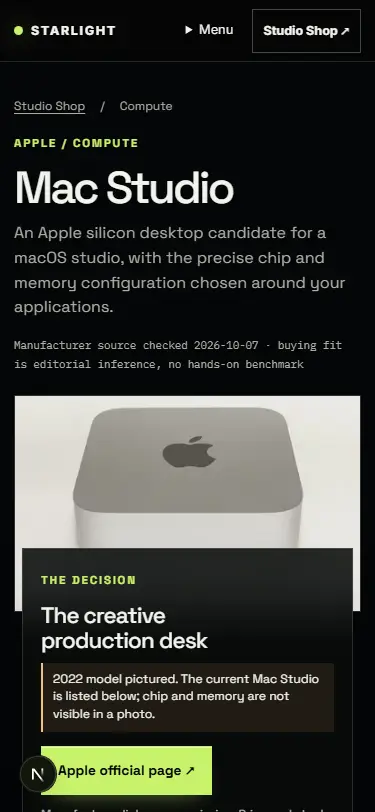
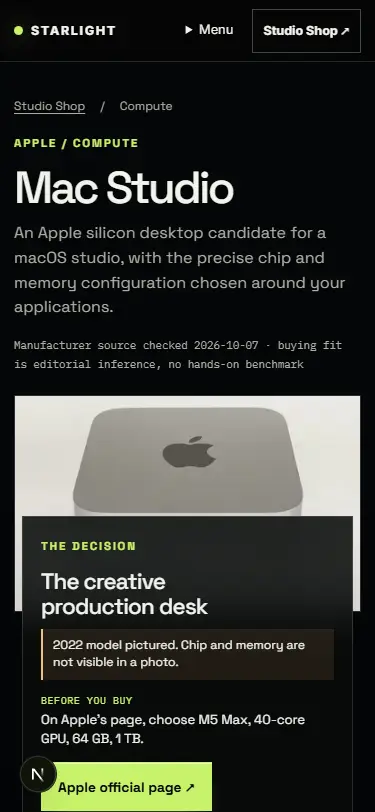
fix(shop): Codex round 3: tell buyers which variant to select
- DGX Spark and Mac Studio panels say, above the action, which variant to
  choose on the manufacturer page (NVIDIA 128 GB; M5 Max 40-core GPU,
  64 GB, 1 TB).
- The DGX-to-Mac alternative no longer claims more memory than the 128 GB
  Spark; it states Apple's 512 GB ceiling instead.
- Mobile panel overlaps the photo by 96 px so the action stays inside the
  375 x 812 viewport with both notices present.

Changed region(s): [[0.088, 0.7081, 0.88, 1.0], [0.0587, 0.6158, 0.9387, 0.6773]]

diff --git a/src/lib/shop-configs.ts b/src/lib/shop-configs.ts
@@ -1,16 +1,17 @@
 export interface ShopConfig {
   checkedOn: string;
   pick?: string;
+  select?: string;
   rows: [label: string, value: string][];
 }
 
 // Copied from each product's manufacturer page (product.sourceUrl) on checkedOn.
 // Advertised figures only: no benchmark, price or stock claim.
 export const shopConfigs: Record<string, ShopConfig> = {
-  "nvidia-dgx-spark": { checkedOn: "2026-10-20", rows: [["Chip", "GB10 Grace Blackwell, 20-core Arm CPU"], ["Memory", "128 GB LPDDR5x unified, NVIDIA's own model; 64 GB only through OEM partners"], ["Storage", "Up to 4 TB NVMe, self-encrypting"], ["Network", "10 GbE + ConnectX-7 200 Gbps"]] },
+  "nvidia-dgx-spark": { checkedOn: "2026-10-20", select: "On NVIDIA's page, choose the 128 GB model. 64 GB units are sold only by OEM partners.", rows: [["Chip", "GB10 Grace Blackwell, 20-core Arm CPU"], ["Memory", "128 GB LPDDR5x unified, NVIDIA's own model; 64 GB only through OEM partners"], ["Storage", "Up to 4 TB NVMe, self-encrypting"], ["Network", "10 GbE + ConnectX-7 200 Gbps"]] },
   "nvidia-rtx-5090": { checkedOn: "2026-10-20", rows: [["Memory", "32 GB GDDR7"], ["CUDA cores", "21,760"], ["Power", "575 W card; 1000 W system PSU"], ["Founders Edition", "304 mm long; partner boards vary"]] },
   "minisforum-ms-s1-max": { checkedOn: "2026-10-20", rows: [["Chip", "AMD Ryzen AI Max+ 395"], ["Memory", "64 GB LPDDR5x-8000 unified, soldered"], ["Storage", "2 TB SSD"], ["Network", "Dual 10 GbE, Wi-Fi 7, USB4 v2"]] },
-  "apple-mac-studio": { checkedOn: "2026-10-20", pick: "Our pick of Apple's three standard configurations", rows: [["Chip", "M5 Max, 18-core CPU, 40-core GPU"], ["Memory", "64 GB unified; cannot be upgraded later"], ["Storage", "1 TB SSD"], ["Range", "Apple also lists 36–512 GB memory, up to 16 TB, and M5 Ultra"]] },
+  "apple-mac-studio": { checkedOn: "2026-10-20", select: "On Apple's page, choose M5 Max, 40-core GPU, 64 GB, 1 TB.", pick: "Our pick of Apple's three standard configurations", rows: [["Chip", "M5 Max, 18-core CPU, 40-core GPU"], ["Memory", "64 GB unified; cannot be upgraded later"], ["Storage", "1 TB SSD"], ["Range", "Apple also lists 36–512 GB memory, up to 16 TB, and M5 Ultra"]] },
   "ugreen-dxp4800-plus": { checkedOn: "2026-10-20", rows: [["CPU", "Intel Pentium Gold 8505"], ["Memory", "8 GB DDR5-6400, expandable to 64 GB"], ["Network", "1 × 10 GbE + 1 × 2.5 GbE"], ["Storage", "4 bays + 2 M.2 NVMe; 144 TB raw maximum"]] },
   "samsung-990-pro-2tb": { checkedOn: "2026-10-20", rows: [["Interface", "PCIe 4.0 x4, NVMe 2.0, M.2 2280"], ["Sequential", "Up to 7,450 MB/s read, 6,900 write"], ["Warranty", "5 years or 1,200 TBW"]] },
   "elgato-stream-deck-plus": { checkedOn: "2026-10-20", rows: [["Controls", "8 LCD keys, 4 push dials"], ["Touch panel", "108 × 14 mm LCD strip"], ["Connection", "USB-C, USB 3.0 port recommended"]] },
@@ -24,7 +25,7 @@ export const shopAlternatives: Record<string, ShopAlternative[]> = {
   "nvidia-dgx-spark": [
     { slug: "minisforum-ms-s1-max", tradeoff: "One x86 desktop for Windows or Linux apps, with 64 GB fixed memory instead of a separate NVIDIA node." },
     { slug: "nvidia-rtx-5090", tradeoff: "CUDA inside a PC you already own: 32 GB on one card, but it needs a 1000 W system." },
-    { slug: "apple-mac-studio", tradeoff: "macOS creative desktop with much more unified memory, without the NVIDIA software stack." }
+    { slug: "apple-mac-studio", tradeoff: "A macOS creative desktop, configurable up to 512 GB unified memory, without the NVIDIA software stack." }
   ],
   "nvidia-rtx-5090": [
     { slug: "nvidia-dgx-spark", tradeoff: "A separate NVIDIA node with 128 GB unified memory, instead of rebuilding your PC around a 575 W card." },

diff --git a/src/components/shop.module.css b/src/components/shop.module.css
@@ -137,6 +137,8 @@
 .stage[data-photo="false"] .decisionPanel { border-color: #46543a; background: #111713; }
 .decisionPanel h2 { margin: 0 0 14px; font-size: 1.6rem; line-height: 1.12; letter-spacing: -.035em; font-weight: 500; }
 .panelNote { margin: -4px 0 14px; padding: 8px 10px; border-left: 2px solid var(--amber); background: rgb(255 191 105 / .1); color: var(--paper); font-size: .76rem; line-height: 1.45; }
+.panelSelect { margin: 0 0 14px; font-size: .82rem; line-height: 1.45; }
+.panelSelect span { display: block; margin-bottom: 3px; color: var(--signal); font: .62rem var(--font-mono), monospace; letter-spacing: .06em; text-transform: uppercase; }
 .panelPick { margin: 18px 0 6px; color: var(--signal); font: .62rem var(--font-mono), monospace; letter-spacing: .04em; }
 .panelConfig { display: grid; gap: 0; margin: 18px 0 6px; }
 .panelPick + .panelConfig { margin-top: 0; }
@@ -179,7 +181,7 @@
   .productHead { padding-block: 18px 20px; gap: 10px; }
   .productHead .lede { font-size: 1rem; line-height: 1.55; }
   .stageMedia { aspect-ratio: 16 / 10; }
-  .decisionPanel { margin-inline: 8px; padding: 22px 18px; }
+  .decisionPanel { margin: -96px 8px 0; padding: 20px 18px; }
   .decisionPanel h2 { font-size: 1.4rem; }
   .alternative { grid-template-columns: 92px minmax(0, 1fr); }
 }

diff --git a/src/app/shop/[slug]/page.tsx b/src/app/shop/[slug]/page.tsx
@@ -56,6 +56,7 @@ export default async function ProductPage({ params }: { params: Promise<{ slug: 
         <p className="eyebrow">The decision</p>
         <h2 id="decision-heading">{product.role}</h2>
         {photo?.variantNote && <p className={styles.panelNote}>{photo.variantNote}</p>}
+        {config?.select && <p className={styles.panelSelect}><span>Before you buy</span>{config.select}</p>}
         <a className="button button-primary button-lit" href={offer.href} target="_blank" rel={affiliate ? "sponsored noopener" : "noopener"}>{affiliate ? `View at ${offer.merchant} ↗` : `${offer.merchant} official page ↗`}</a>
         <p className={styles.panelDisclosure}>{affiliate ? "Affiliate link: we may earn a commission. Price and stock are confirmed on the merchant site." : "Manufacturer link, no commission. Price and stock are confirmed there."} <Link href="/disclosure">How we earn →</Link></p>
         {config?.pick && <p className={styles.panelPick}>{config.pick}</p>}

diff --git a/src/lib/shop-photos.ts b/src/lib/shop-photos.ts
@@ -50,7 +50,7 @@ export const shopPhotos: Record<string, ShopPhoto> = {
     title: "Mac Studio (2022) front",
     pictured: "A 2022 Mac Studio. Chip, memory and storage cannot be identified from a photograph.",
     changes: "Resized from 1920 px to 1600 px and re-encoded; no other edits.",
-    variantNote: "2022 model pictured. The current Mac Studio is listed below; chip and memory are not visible in a photo.",
+    variantNote: "2022 model pictured. Chip and memory are not visible in a photo.",
     author: "Yasu", license: "CC BY-SA 3.0", licenseUrl: CC_BY_SA_3,
     sourceUrl: "https://commons.wikimedia.org/wiki/File:Mac_Studio_(2022)_front.jpg",
     objectPosition: "50% 62%"
